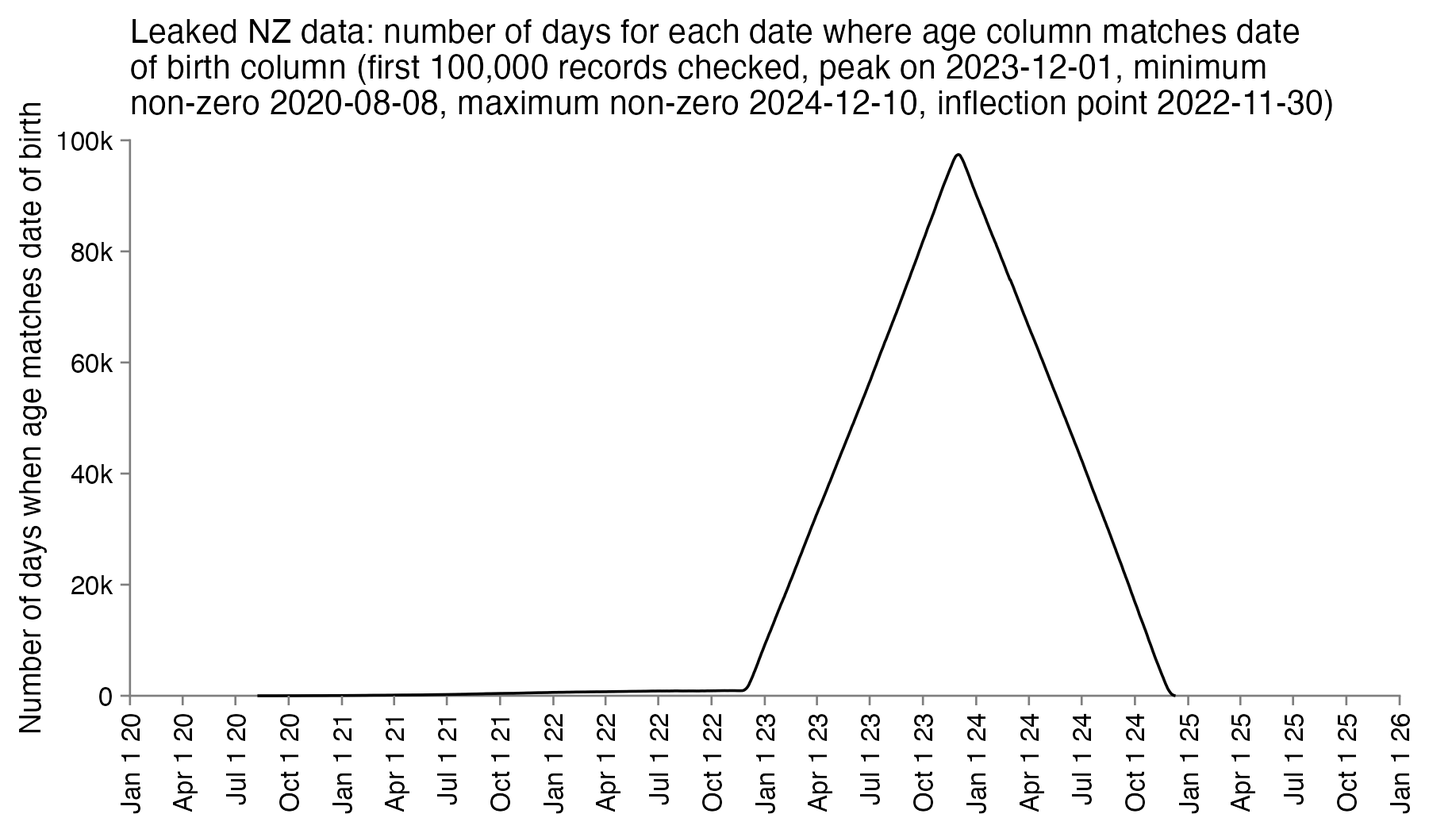
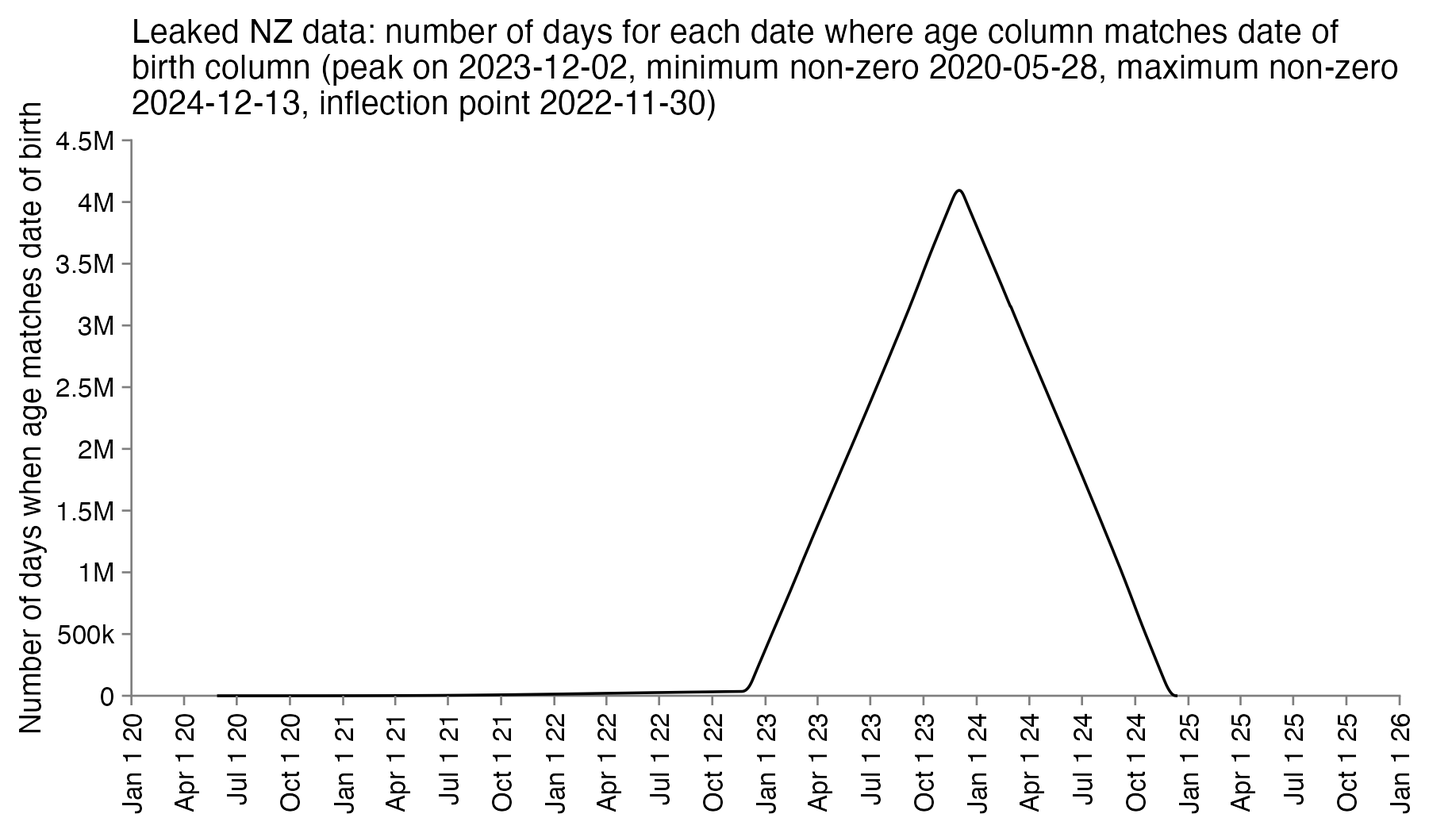
a

diff --git a/moar.html b/moar.html
@@ -50,6 +50,7 @@ th{background:#eee;text-align:left;font-weight:bold}
 <ul>
 <li><a href=#Background>Background</a></li>
 <li><a href=#The_data_is_obfuscated_and_only_contains_records_from_a_pay_per_dose_system>The data is obfuscated and only contains records from a pay-per-dose system</a></li>
+<li><a href=#Reverse_engineering_the_age_column>Reverse engineering the age column</a></li>
 <li><a href=#Anomalies_in_the_CSV_file>Anomalies in the CSV file</a></li>
 </ul></li>
 <li><a href=#Barry_Youngs_interview_with_Liz_Gunn>Barry Young's interview with Liz Gunn</a>
@@ -62,11 +63,11 @@ th{background:#eee;text-align:left;font-weight:bold}
 <ul>
 <li><a href=#Time_from_vaccination_until_death>Time from vaccination until death</a></li>
 <li><a href=#Distribution_of_vaccine_doses_given_per_day>Distribution of vaccine doses given per day</a></li>
-<li><a href=#Reverse_engineering_the_age_column>Reverse engineering the age column</a></li>
 <li><a href=#Statistics_relative_to_date_of_vaccination>Statistics relative to date of vaccination</a></li>
 <li><a href=#Statistics_per_batch>Statistics per batch</a></li>
 <li><a href=#Table_of_vaccine_types_by_batch>Table of vaccine types by batch</a></li>
 <li><a href=#Daily_vaccine_doses_per_age_group_compared_to_excess_mortality_by_age_group>Daily vaccine doses per age group compared to excess mortality by age group</a></li>
+<li><a href=#Mortality_rate_3_5_weeks_after_vaccination_compared_to_actual_CMR>Mortality rate 3-5 weeks after vaccination compared to actual CMR</a></li>
 </ul></li>
 <li><a href=#Miscellaneous>Miscellaneous</a>
 <ul>
@@ -74,6 +75,7 @@ th{background:#eee;text-align:left;font-weight:bold}
 <li><a href=#Excess_mortality_compared_to_new_vaccinations>Excess mortality compared to new vaccinations</a></li>
 <li><a href=#Tweet_by_Kirsch_about_excess_mortality_in_2021_2023>Tweet by Kirsch about excess mortality in 2021-2023</a></li>
 <li><a href=#Tweet_about_excess_deaths_by_Clare_Craig>Tweet about excess deaths by Clare Craig</a></li>
+<li><a href=#Errors_in_Kirschs_analysis>Errors in Kirsch's analysis</a></li>
 <li><a href=#Research_by_other_people>Research by other people</a></li>
 </ul></li>
 </ul>
@@ -127,6 +129,50 @@ th{background:#eee;text-align:left;font-weight:bold}
 <p>During an interview on InfoWars, Kirsch said: <span class="quote">&quot;We have the original data. It's been anonymized so we don't run into any privacy issues or HIPAA violations. But it's been anonymized in a way that we maintain the statistical fidelity of the data. In other words we time-shifted all of the dates relative to each other, but the dates relative to each other are the same. We just shifted them slightly in time so that you can still do the statistical analysis without violating anyone's privacy.&quot;</span> [<a href="https://banned.video/watch?id=656a5c4e0681e68064e50415">https://banned.video/watch?id=656a5c4e0681e68064e50415</a>, time 14:25] In a Substack post in February 2023 where Kirsch requested people to release record-level vaccination data, he provided instructions on how to format the data which matched the format of the CSV file for Barry Young's data, and Kirsch also wrote: <span class="quote">&quot;Before publicly releasing the records, you obfuscate them using a method that is deterministic on a per record basis so that all the dates of a given person's records are consistently time shifted.&quot;</span> [<a href="https://kirschsubstack.com/p/a-worldwide-call-for-data-transparency">https://kirschsubstack.com/p/a-worldwide-call-for-data-transparency</a>] So I guess the way the data was obfuscated was that for each person in the dataset, the dates of the person were shifted by a random number of days backwards or forwards.</p>
 <p>Kirsch said that each record contained auditing information which confirmed the authenticity of the data: <span class="quote">&quot;Anyone who claims the NZ data is fraudulent is trying to gaslight you. I've spent weeks analyzing the data. It's not fraudulent. The NZMH has NEVER said it was fraudulent. You don't get arrested for exposing data that is not real. There is auditing information on each record that confirms the authenticity of the data.&quot;</span> [<a href="https://x.com/stkirsch/status/1731228907490201848">https://x.com/stkirsch/status/1731228907490201848</a>]</p>
 <p>Barry Young's dataset includes data for about two and half years, because the earliest death is on 2021-05-09 and the last death is on 2023-10-27, and the earliest vaccination is on 2021-04-18 and the last vaccination is on 2023-09-24.</p>
+<h3>
+<a href=#Reverse_engineering_the_age_column id=Reverse_engineering_the_age_column>Reverse engineering the age column</a>
+</h3>
+<p>At first I thought that the value of the age column indicated age on the date of vaccination, but the age is always the same in each entry for a patient, so for example the age of patient 1 is listed as 72 on rows for doses given in both 2021 and 2023:</p>
+<pre>$ awk &#39;NR==1||/^1,/&#39; nz-record-level-data-4M-records.csv|csvtk pretty|sed 2d
+mrn   batch_id   dose_number   date_time_of_service   date_of_death   vaccine_name                                         date_of_birth   age
+1     1          2             07-24-2021                             Pfizer BioNTech COVID-19                             05-23-1951      72
+1     1          1             06-19-2021                             Pfizer BioNTech COVID-19                             05-23-1951      72
+1     104        5             05-07-2023                             Pfizer Comirnaty Original/Omicron BA.4-5 15/15 mcg   05-23-1951      72</pre>
+<p>So the column for the age probably corresponds to the age of the patient on a certain date. In order to reverse engineer which date it was, for each day in the years 2020 to 2025, I checked how many patients had an age which matched the date of birth. I got the highest number of matches for December 2nd 2023, the last date with non-zero matches was December 13th 2024, and the number of matches went linearly down to almost zero around November 30th 2022 when there's an inflection point, but after that it takes over a year until the number of matching dates goes to completely zero in May 2021. So basically the age column seems to correspond to the age around December 2st 2023, and the dates of birth seem to have been shifted by at most around 11 days backwards or forwards:</p>
+<div class="width6">
+<img src="i/moar-age-reverse-engineer.png">
+</div>
+<p>In an X Space where Kirsch was asked to describe the obfuscation procedure, he said: <span class="quote">&quot;The transformation is very unlikely to have shifted someone's data by over 30 days. It's very unlikely to have shifted someone's data by over 10 days.&quot;</span> [<a href="https://twitter.com/stkirsch/status/1733531453978489209">https://twitter.com/stkirsch/status/1733531453978489209</a>, time 19:31] So maybe the number of days is selected using a random variable with a normal distribution, so the maximum number of days can be even higher than 11.</p>
+<p>Later Kirsch added a file which explained the obfuscation algorithm to his S3 server:</p>
+<pre>$ cat data-transparency/Code/time-series\ analysis/obfuscation_algorithm.txt
+&quot;For each person, a non-zero date offset was chosen from a gaussian distribution with sigma=7
+and all of the dates for that record were offset for that same amount,
+so the differences between dates are identical.&quot;
+
+date_delta = 0
+while date_delta == 0:
+    date_delta = int(random.normalvariate(0,1) * 7)
+
+This means that every record was altered. No record was left intact.
+
+Every date was time shifted by the same amount.
+
+Note:
+
+The &quot;Age&quot; field was inserted as a convenience item for use in Excel.
+
+Anyone doing serious work on the data should always use the date of birth to compute the exact age at the time of the record.</pre>
+<p>Kirsch's description says that a random number was chosen <span class="quote">&quot;for each person&quot;</span>, but it's not clear if different randoms number may have been used in different lines for the same person. However as evidence that all the lines of a person were shifted by the same amount of days, a website about COVID vaccinations in New Zealand said about the Pfizer vaccine that <span class="quote">&quot;You need 2 doses. The standard gap between doses is 3 weeks or more.&quot;</span> [<a href="https://covid19.govt.nz/covid-19-vaccines/covid-19-vaccine-facts-and-advice/covid-19-vaccines-used-in-new-zealand/">https://covid19.govt.nz/covid-19-vaccines/covid-19-vaccine-facts-and-advice/covid-19-vaccines-used-in-new-zealand/</a>] And in Kirsch's CSV file the most common gap between the first and second doses is 21 days:</p>
+<pre>&gt; t=as.data.frame(data.table::fread(&quot;nz-record-level-data-4M-records.csv&quot;))
+&gt; for(i in grep(&quot;date&quot;,colnames(t)))t[,i]=as.Date(t[,i],&quot;%m-%d-%Y&quot;)
+&gt; me=t[t$dose_number==1,c(1,4)]|&gt;merge(t[t$dose_number==2,c(1,4)],by=1)
+&gt; head(sort(table(me[,3]-me[,2]),T),30)
+    21     42     28     22     43     35     23     49     56     44     27
+144609 121862  47806  35671  26362  24864  18890  17422  17251  17244  16413
+    24     41     25     45     26     29     46     36     34     40     39
+ 15785  15744  14393  14328  13802  13661  12171  11858  11384  11250  10947
+    48     47     30     38     37     31     32     33
+ 10782  10624  10494  10359  10178   9610   9323   9300</pre>
 <h3>
 <a href=#Anomalies_in_the_CSV_file id=Anomalies_in_the_CSV_file>Anomalies in the CSV file</a>
 </h3>
@@ -561,32 +607,33 @@ month    dose  week  age  alive  dead
 <pre>library(ggplot2)
 
 t=read.table(&quot;data-transparency/New Zealand/time-series summaries/month_dose_week_single_age.txt&quot;,header=T)
+t=t[t$dose!=0,]
 
-ag=aggregate(list(pop=t$alive+t$dead,dead=t$dead),t[,c(2:4)],sum)
+ag=aggregate(t[,5:6],t[,2:4],sum)
 ag=ag[ag$dose&lt;=5&amp;ag$dose&gt;0,]
-ag=merge(ag,aggregate(ag$pop,ag[,1:2],sum),by=1:2)
+ag=merge(ag,aggregate(ag$alive,ag[,1:2],sum),by=1:2)
 colnames(ag)[6]=&quot;allagepop&quot;
 
-xy=aggregate(ag[,c(4:5)],ag[,1:2],sum)
-xy=merge(xy,aggregate(ag$age*ag$pop/ag$allagepop,ag[,c(1:2)],sum),by=1:2)
+xy=aggregate(ag[,4:5],ag[,1:2],sum)
+xy=merge(xy,aggregate(ag$age*ag$alive/ag$allagepop,ag[,c(1:2)],sum),by=1:2)
 colnames(xy)[5]=&quot;age&quot;
 xy$dose=paste0(&quot;Dose &quot;,xy$dose)
 
 total=aggregate(ag[,4:5],ag[,&quot;week&quot;,drop=F],sum)
 total$dose=&quot;All doses&quot;
-total$age=tapply(ag$age*ag$pop,ag$week,sum)/tapply(ag$pop,ag$week,sum)
+total$age=tapply(ag$age*ag$alive,ag$week,sum)/tapply(ag$alive,ag$week,sum)
 xy=rbind(total[,colnames(xy)],xy)
 
-xy$pop=xy$pop/12
-xy$cmr=xy$dead/xy$pop*365.2422/7*1e3
+xy$alive=xy$alive/365
+xy$cmr=xy$dead/xy$alive*1e5
 
 xy$dose=factor(xy$dose,unique(xy$dose))
-minpop=1e4
-xy$cmr[xy$pop&lt;minpop]=NA
+minpop=1e3
+xy$cmr[xy$alive&lt;minpop]=NA
 xy=na.omit(xy)
 
 # xy$trend=split(xy,xy$dose)|&gt;lapply(\(i)predict(lm(cmr~week,i),i))|&gt;unlist()
-xy$pop[xy$dose==&quot;All doses&quot;]=NA
+xy$alive[xy$dose==&quot;All doses&quot;]=NA
 
 xstart=0;xend=120;xstep=10
 candidates=c(sapply(c(1,2,5),\(x)x*10^c(-10:10)))
@@ -596,8 +643,8 @@ yend=ystep*ceiling(max(xy$cmr,xy$age)/ystep)
 xbreak=seq(xstart,xend,xstep)
 ybreak=seq(ystart,yend,ystep)
 
-ystep2=candidates[which.min(abs(candidates-max(xy$pop,na.rm=T)/6))]
-yend2=ceiling(max(xy$pop,na.rm=T)/ystep2)*ystep2
+ystep2=candidates[which.min(abs(candidates-max(xy$age,na.rm=T)/6))]
+yend2=ceiling(max(xy$age,na.rm=T)/ystep2)*ystep2
 secmult=yend/yend2
 
 xy=xy[sample(nrow(xy)),] # get random pattern of overlap between dots
@@ -612,15 +659,14 @@ ggplot(xy,aes(x=week,y=cmr))+
 geom_hline(yintercept=ystart,color=&quot;black&quot;,linewidth=.3,lineend=&quot;square&quot;)+
 geom_vline(xintercept=c(xstart,xend),color=&quot;black&quot;,linewidth=.3,lineend=&quot;square&quot;)+
 geom_line(aes(color=dose),linewidth=.4)+
-geom_point(aes(y=age,color=dose),size=.4)+
-geom_line(aes(y=pop*secmult,color=dose),linewidth=.4,linetype=2)+
+geom_point(aes(y=age*secmult,color=dose),size=.4)+
+geom_line(aes(y=alive*365/1e5*secmult,color=dose),linewidth=.4,linetype=2)+
 # geom_line(aes(y=trend,color=dose),linetype=2,size=.4)+
 geom_label(data=labels,aes(x=x,y=y,label=label),fill=alpha(&quot;white&quot;,.7),label.r=unit(0,&quot;lines&quot;),label.padding=unit(.04,&quot;lines&quot;),label.size=0,color=color[1:nlevels(xy$dose)],size=3.2,hjust=1,vjust=1)+
-labs(x=&quot;Weeks from vaccination to death&quot;,y=&quot;Deaths per 1,000 person-years (solid)\nAverage age (dots)&quot;,title=&quot;Leaked NZ data: crude mortality rate by weeks from vaccination to death&quot;,subtitle=paste0(&quot;Based on month_dose_week_single_age.txt generated with buckets.py. People with multiple doses are only included under the most recent dose. Weeks with cohort size below &quot;,formatC(minpop,digits=0,format=&quot;f&quot;,big.mark=&quot;,&quot;),&quot; are omitted.&quot;)|&gt;stringr::str_wrap(84))+
+labs(x=&quot;Weeks from vaccination to death&quot;,y=&quot;Deaths per 100,000 person-years (solid)&quot;,title=&quot;Crude mortality rate by weeks from vaccination to death&quot;,subtitle=paste0(&quot;Based on month_dose_week_single_age.txt generated with buckets.py. People with multiple doses are only included under the most recent dose. Weeks with population size below &quot;,formatC(minpop,digits=0,format=&quot;f&quot;,big.mark=&quot;,&quot;),&quot; person-years are omitted.&quot;)|&gt;stringr::str_wrap(84))+
 coord_cartesian(clip=&quot;off&quot;)+
 scale_x_continuous(limits=c(xstart,xend),breaks=xbreak,expand=c(0,0))+
-## scale_y_continuous(limits=c(ystart,yend),breaks=ybreak,expand=c(0,0))+
-scale_y_continuous(limits=c(ystart,yend),breaks=ybreak,expand=c(0,0),sec.axis=sec_axis(trans=~./secmult,breaks=seq(0,yend2,ystep2),name=&quot;Cohort size (dashed)&quot;,labels=kimi))+
+scale_y_continuous(limits=c(ystart,yend),breaks=ybreak,expand=c(0,0),labels=kimi,sec.axis=sec_axis(trans=~./secmult,breaks=seq(0,yend2,ystep2),name=&quot;Average age (dots)\nPopulation size in 100k person-days (dashed)&quot;,labels=kimi))+
 scale_color_manual(values=color)+
 theme(
   axis.text=element_text(size=8,color=&quot;black&quot;),
@@ -695,39 +741,6 @@ $ awk &#39;NR==1||/New Zealand/&#39; owid-covid-data.csv|csvtk cut -f date,new_v
 2023-04-02 3692 3685.0
 2023-04-03 19746 19488.0
 2023-04-04 20129 19733.0</pre>
-<h3>
-<a href=#Reverse_engineering_the_age_column id=Reverse_engineering_the_age_column>Reverse engineering the age column</a>
-</h3>
-<p>At first I thought that the value of the age column indicated age on the date of vaccination, but the age is always the same in each entry for a patient, so for example the age of patient 1 is listed as 72 on rows for doses given in both 2021 and 2023:</p>
-<pre>$ awk &#39;NR==1||/^1,/&#39; nz-record-level-data-4M-records.csv|csvtk pretty|sed 2d
-mrn   batch_id   dose_number   date_time_of_service   date_of_death   vaccine_name                                         date_of_birth   age
-1     1          2             07-24-2021                             Pfizer BioNTech COVID-19                             05-23-1951      72
-1     1          1             06-19-2021                             Pfizer BioNTech COVID-19                             05-23-1951      72
-1     104        5             05-07-2023                             Pfizer Comirnaty Original/Omicron BA.4-5 15/15 mcg   05-23-1951      72</pre>
-<p>So the column for the age probably corresponds to the age of the patient on a certain date. In order to reverse engineer which date it was, for each day in the years 2020 to 2025, I checked how many patients had an age which matched the date of birth. I got the highest number of matches for December 1st 2023, the last date with non-zero matches was December 9th 2024, and the number of matches went linearly down to almost zero around November 30th 2022 when there's an inflection point, but after that it takes over a year until the number of matching dates goes to completely zero in August 2021. So basically the age column seems to correspond to the age around December 1st 2023, and the dates of birth seem to have been shifted by at most around 7-8 days backwards or forwards:</p>
-<div class="width6">
-<img src="i/moar-age-reverse-engineer.png">
-</div>
-<p>In an X Space where Kirsch was asked to describe the obfuscation procedure, he said: <span class="quote">&quot;The transformation is very unlikely to have shifted someone's data by over 30 days. It's very unlikely to have shifted someone's data by over 10 days.&quot;</span> [<a href="https://twitter.com/stkirsch/status/1733531453978489209">https://twitter.com/stkirsch/status/1733531453978489209</a>, time 19:31] So maybe the number of days is selected using a random variable with a normal distribution, so the maximum number of days can be even higher than 7 or 8. In fact when I repeated my procedure above but I checked all records instead of only the first 100,000 records, the peak date was on December 2nd 2023, and the maximum non-zero date was on December 13th 2024, so there may have been a single person who was born on November 30th or December 1st but whose birthday was shifted 13 or 12 days forwards (depending on whether the age column corresponds to the age on December 1st or 2nd).</p>
-<p>Later Kirsch added a file which explained the obfuscation algorithm to his S3 server:</p>
-<pre>$ cat data-transparency/Code/time-series\ analysis/obfuscation_algorithm.txt
-&quot;For each person, a non-zero date offset was chosen from a gaussian distribution with sigma=7
-and all of the dates for that record were offset for that same amount,
-so the differences between dates are identical.&quot;
-
-date_delta = 0
-while date_delta == 0:
-    date_delta = int(random.normalvariate(0,1) * 7)
-
-This means that every record was altered. No record was left intact.
-
-Every date was time shifted by the same amount.
-
-Note:
-
-The &quot;Age&quot; field was inserted as a convenience item for use in Excel.
-
-Anyone doing serious work on the data should always use the date of birth to compute the exact age at the time of the record.</pre>
 <h3>
 <a href=#Statistics_relative_to_date_of_vaccination id=Statistics_relative_to_date_of_vaccination>Statistics relative to date of vaccination</a>
 </h3>
@@ -1015,10 +1028,11 @@ Covid Paediatric Pfizer,GE0694,2023-10-31,249600</pre>
 <div class="width6">
 <img src="i/nopandemic-rancourt-peru-age-groups.gif">
 </div>
-<p>So I looked if a similar effect was visible in Young's data, but it's a bit difficult to tell because in New Zealand there isn't any clear spike in excess deaths which coincided with the rollout of a new vaccine dose, apart from maybe a spike in March 2022 which occurred about two months after there was a peak in the number of new vaccine doses. Young's data shows that in January to February 2022 when there was a peak in new vaccine doses in all 5 age groups I used below, the peak occurred the earliest in the age groups 75-84 and 85+ but it only occurred about 3 weeks later in the age group 15-64. However in March 2022 when there was the next peak in excess deaths, the peak occurred around the same time in all age groups, or in fact the peak occurred slightly earlier in younger age groups. So if the peak in deaths was caused by vaccines, then why didn't the peak occur earlier in the age groups which received the vaccine earlier? Or was the vaccine more fast-acting in younger people than older people?</p>
+<p>So I looked if a similar effect was visible in Young's data, but it's a bit difficult to tell because in New Zealand there isn't any clear spike in excess deaths which coincided with the rollout of a new vaccine dose, apart from maybe a spike in March 2022 which occurred about two months after there was a peak in the number of new vaccine doses. Young's data shows that in January to February 2022 when there was a peak in new vaccine doses in all 5 age groups I used below, the peak occurred the earliest in the age groups 75-84 and 85+ but it only occurred about 3 weeks later in the age group 15-64. However in March 2022 when there was the next peak in excess deaths, the peak occurred around the same time in all age groups, or in fact the peak occurred slightly earlier in younger age groups. So if the peak in deaths was caused by vaccines, then why didn't the peak occur earlier in the age groups which received the vaccine earlier? Or did the vaccine kill young people faster than old people?</p>
 <div class="width8">
 <img src="i/moar-new-doses-vs-excess-mortality.png">
 </div>
+<p>In the plot above the age groups 0-15 and age groups have negative excess mortality eAnd also if the vaccines were killing a lot of young people, then why do the age groups 0-14 and 15-64 have negative excess deaths even for most of 2022 and 2023? I calculated excess deaths relative to a seasonality-adjusted linear projection of the weekly number of deaths in 2015-2019.</p>
 <pre>library(ggplot2)
 
 t=as.data.frame(data.table::fread(&quot;nz-record-level-data-4M-records.csv&quot;))
@@ -1120,6 +1134,16 @@ theme(
 )
 
 ggsave(&quot;1.png&quot;,width=5.8,height=4.5)</pre>
+<h3>
+<a href=#Mortality_rate_3_5_weeks_after_vaccination_compared_to_actual_CMR id=Mortality_rate_3_5_weeks_after_vaccination_compared_to_actual_CMR>Mortality rate 3-5 weeks after vaccination compared to actual CMR</a>
+</h3>
+<p>Jeffrey Morris wrote: <span class="quote">&quot;The baselines in his projections are not actuarial baselines but based on his baseless assumption that HVE is only 3 weeks and death rates 3-5wk after dose represent baseline death rate and any increase is vaccine caused deaths. [...] If you put the actuarial baseline death rate for the age on his charts you see that the 6m increase he claims is excess deaths caused by vaccines is not excess but really a slower return to baseline from the HVE based very low death rates after vaccine.&quot;</span> [<a href="https://twitter.com/jsm2334/status/1730424221208105396">https://twitter.com/jsm2334/status/1730424221208105396</a>]</p>
+<p>In the spreadsheet shown in the screenshot below, the <span class="quote">&quot;baseline death rate estimate&quot;</span> is calculated based on weeks 3-5 after vaccination (where week 0 extends from the day of vaccination until 6 days later). I changed the <span class="quote">&quot;age start&quot;</span> field to 65 and the <span class="quote">&quot;age end&quot;</span> field to 74 so I could compare the crude mortality rate to the CMR of the same age group at Mortality Watch. However the baseline was unexpectedly a bit lower at Mortality Watch: [<a href="https://next.mortality.watch/explorer/?c=NZL&t=cmr&ct=yearly&ag=65-74&ag=75-84&ag=all&bm=mean&p=1&v=2">https://next.mortality.watch/explorer/?c=NZL&amp;t=cmr&amp;ct=yearly&amp;ag=65-74&amp;ag=75-84&amp;ag=all&amp;bm=mean&amp;p=1&amp;v=2</a>]</p>
+<div class="width8">
+<img src="i/moar-baseline.jpg">
+</div>
+<p>And similarly for ages 75-84, Kirsch's baseline based on the average CMR on weeks 3-5 is 4,393, but the average CMR at Mortality Watch in 2021-2022 is about 3,754, which is again lower.</p>
+<p>However the reason why the baselines seem too low could partially be because ages 65-69 are underrepresented in the New Zealand dataset compared to ages 70-74, and ages 75-79 are underrepresented compared to ages 80-84.</p>
 <h2>
 <a href=#Miscellaneous id=Miscellaneous>Miscellaneous</a>
 </h2>
@@ -1229,6 +1253,13 @@ ggsave(&quot;1.png&quot;,width=5.8,height=4.5)</pre>
 </div>
 <p>Craig's tweet said: <span class="quote">&quot;9,408 excess deaths since Oct 2000. This factors in the size of the population. By this measure mortality had been steady for many years.&quot;</span> However her tweet was a bit misleading because the first image in her tweet showed crude mortality rate which had remained flat for several years before COVID, but in the second image in her tweet the figure of 9,408 excess deaths was calculated based on the raw number of deaths, which has been increasing at a fairly sharp rate.</p>
 <h3>
+<a href=#Errors_in_Kirschs_analysis id=Errors_in_Kirschs_analysis>Errors in Kirsch's analysis</a>
+</h3>
+<p>One minor error in the file <code>all_group_by_decade v4.xlsx</code> is that it says that there were about 921 million man-years in the first 6 months after a vaccine dose, because actually it's person-days and not person-years (because Kirsch forgot to divide the number by 365):</p>
+<div class="width6">
+<img src="i/moar-kirsch-error.jpg">
+</div>
+<h3>
 <a href=#Research_by_other_people id=Research_by_other_people>Research by other people</a>
 </h3>
 <p>WelcomeTheEagle made an interactive dashboard for browsing the data. [<a href="https://www.vaersaware.com/new-zealand">https://www.vaersaware.com/new-zealand</a>] He also made the table below which shows that Young's dataset seems to include almost all of the New Zealand population aged 85 and above, but more than half of the population is missing in age groups 50-54 and below (where the <span class="quote">&quot;VAXXED&quot;</span> column shows the number of people included in Young's dataset and not all vaccinated people): [<a href="https://twitter.com/welcometheeagle/status/1731965868505276654/">https://twitter.com/welcometheeagle/status/1731965868505276654/</a>]</p>
@@ -1256,6 +1287,7 @@ ggsave(&quot;1.png&quot;,width=5.8,height=4.5)</pre>
 <img src=i/moar-uncle-4.png class=width5><img src=i/moar-uncle-5.png class=width5>
 </div>
 </blockquote>
+<p>The plots above used the average crude mortality rate in 2015-2019 as the baseline, where the population figures and death figures were from here: <a href="https://infoshare.stats.govt.nz">https://infoshare.stats.govt.nz</a>. Compared to the 2015-2019 average, the actual crude mortality rate at Mortality Watch is about 2-9% lower in 2021 depending on the age group but about 1% lower to about 5% higher in 2022. [<a href="https://next.mortality.watch/explorer/?c=NZL&t=cmr_excess&ct=yearly&ag=15-64&ag=65-74&ag=75-84&ag=85%2B&bm=mean&p=1&v=2">https://next.mortality.watch/explorer/?c=NZL&amp;t=cmr_excess&amp;ct=yearly&amp;ag=15-64&amp;ag=65-74&amp;ag=75-84&amp;ag=85%2B&amp;bm=mean&amp;p=1&amp;v=2</a>]</p>
 <p>Uncle John Returns also posted another thread where he demonstrated the problem with using CMR instead of ASMR to calculate deaths by number of weeks since vaccination: [<a href="https://twitter.com/UncleJo46902375/status/1733441859848949763">https://twitter.com/UncleJo46902375/status/1733441859848949763</a>]</p>
 <blockquote>
 <p>Simpson's paradox or as I prefer to call it, Kirsch's Conundrum</p>
@@ -1279,6 +1311,10 @@ ggsave(&quot;1.png&quot;,width=5.8,height=4.5)</pre>
 <p>He's just hoping you don't.</p>
 <p><img src=i/moar-uncle2-8.png class=width7></p>
 </blockquote>
+<p>When Kirsch asked how a combination of flat lines can produce the scary bump, Uncle John explained it was because of Simpson's paradox: [<a href="https://twitter.com/UncleJo46902375/status/1734183092409999377">https://twitter.com/UncleJo46902375/status/1734183092409999377</a>]</p>
+<div class="width5">
+<img src="i/moar-uncle2-9.jpg">
+</div>
 <script>
 let q=document.querySelectorAll('a,code,pre')
 for(let i=0;e=q[i];i++)e.innerHTML=e.innerHTML.replace(/(\w{60,})/g,x=>x.replace(/./g,"$&<wbr>")).replace(/([\041-\045\047-\057\072\075\077-\100\133-\137\173-\176])/g,"$1<wbr>")
